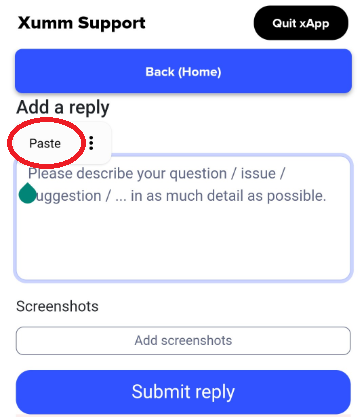
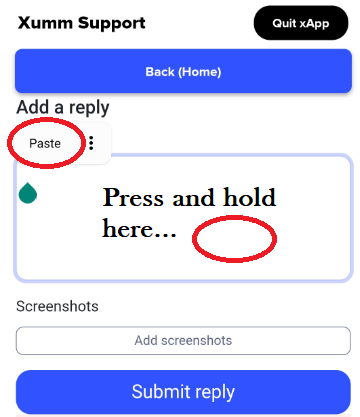
GITBOOK-996: change request with no subject merged in GitBook

Changed region(s): [[0.0611, 0.4053, 0.9167, 0.6547]]

diff --git a/configuring-xumm/understanding-the-settings-options/how-to-post-a-session-log.md b/configuring-xumm/understanding-the-settings-options/how-to-post-a-session-log.md
@@ -44,8 +44,6 @@ If you are already dealing with a support agent and they have requested that you
 
 Press **Write a reply**.
 
-<figure><img src="../../.gitbook/assets/Write a reply.png" alt=""><figcaption></figcaption></figure>
-
 Press and **hold inside the text box** then choose **Paste**.
 
 <figure><img src="../../.gitbook/assets/Add a Reply.png" alt=""><figcaption></figcaption></figure>
